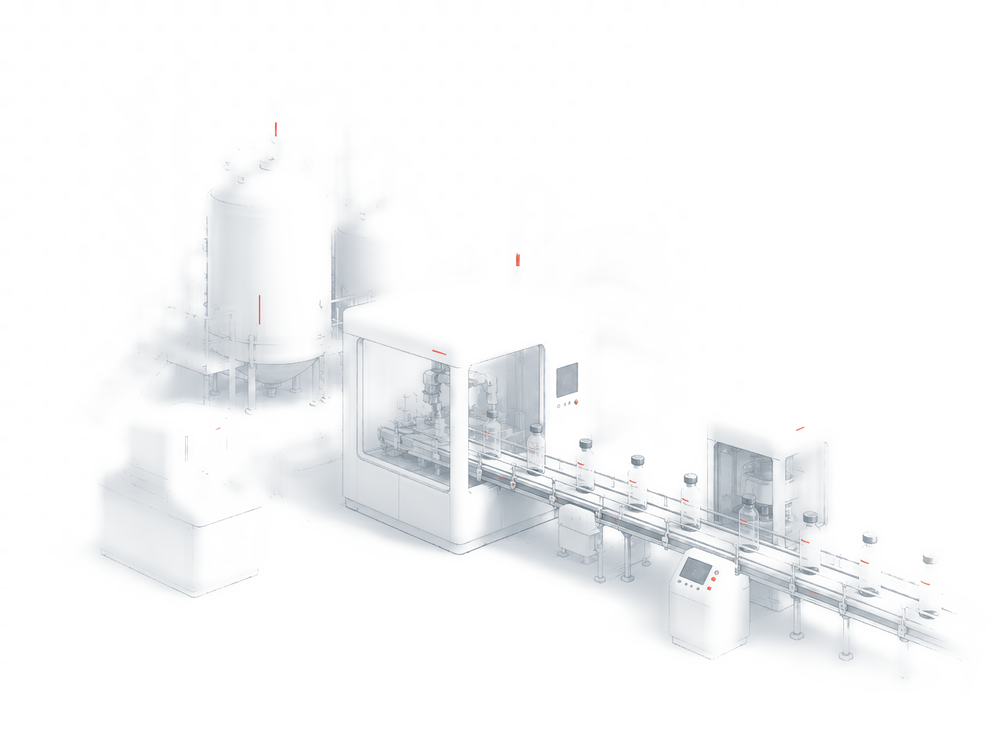
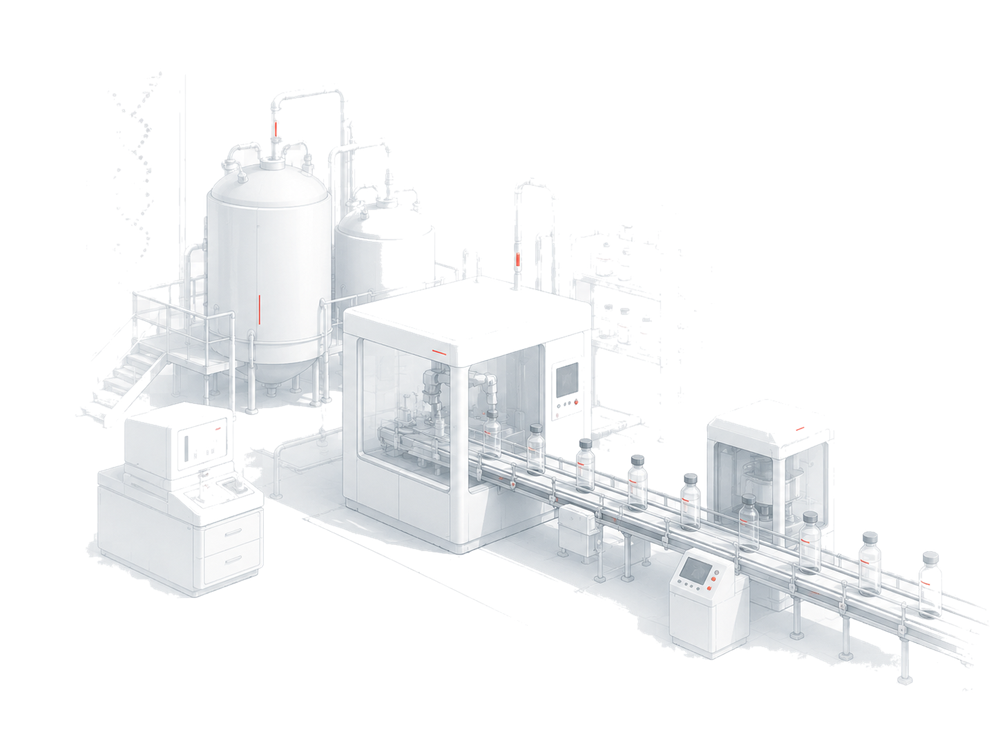
Block 05 illustration: bake true alpha transparency (no white box)
The whiten+multiply approach left a visible light rectangle on the tinted
section bg. Reprocessed bio-line.png with a real alpha channel — flood the
border-connected light field to transparent, keep the objects (verified no
interior holes). Dropped mix-blend-mode so the white machinery renders crisp.

diff --git a/index.html b/index.html
@@ -8,7 +8,7 @@
 <link rel="preconnect" href="https://fonts.googleapis.com">
 <link rel="preconnect" href="https://fonts.gstatic.com" crossorigin>
 <link href="https://fonts.googleapis.com/css2?family=Inter:wght@400;500;600;700;800;900&display=swap" rel="stylesheet">
-<link rel="stylesheet" href="assets/styles.css?v=70">
+<link rel="stylesheet" href="assets/styles.css?v=71">
 </head>
 <body>
 
@@ -311,7 +311,7 @@
           Помимо ВЭД, Бавар+ помогает предприятиям <strong>биотехнологической отрасли</strong>
           с&nbsp;инжинирингом, монтажом, запуском и&nbsp;сервисом производственных линий.
         </p>
-        <img class="bio__illo" src="assets/bio-line.png?v=2" alt="Производственная биотех-линия">
+        <img class="bio__illo" src="assets/bio-line.png?v=3" alt="Производственная биотех-линия">
       </div>
 
       <!-- Правая колонка: 4 карточки услуг -->

diff --git a/assets/styles.css b/assets/styles.css
@@ -1102,7 +1102,6 @@ p { margin: 0; }
   width: 100%;
   max-width: 520px;
   height: auto;
-  mix-blend-mode: multiply;
 }
 @media (max-width: 1024px) { .bio__illo { max-width: 420px; } }
 
